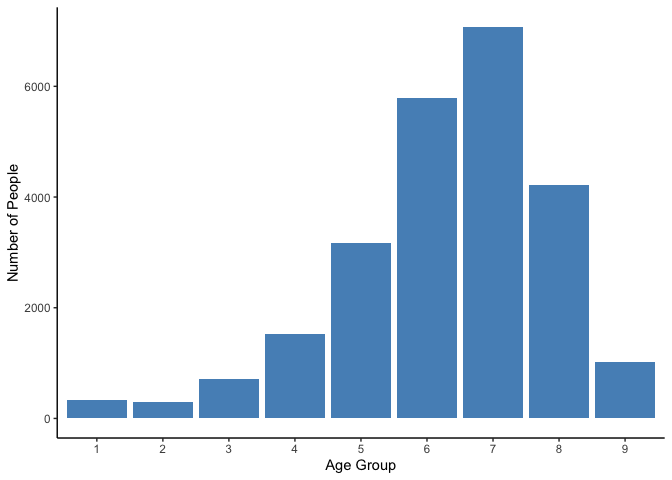
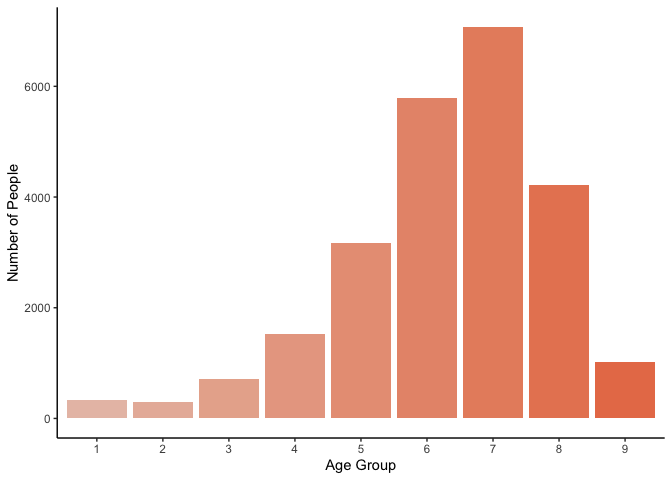
EDA -- univariate & bivariate

Changed region(s): [[0.0938, 0.0312, 1.0, 0.875]]

diff --git a/Report.md b/Report.md
@@ -5,19 +5,14 @@ Kaitlyn Westra
 
 -   [Introduction](#introduction)
 -   [Question](#question)
-    -   [Background](#background)
-    -   [Project](#project)
 -   [Dataset](#dataset)
-    -   [Dataset Background](#dataset-background)
-    -   [Dataset Description](#dataset-description)
-    -   [Exploratory Data Analysis](#exploratory-data-analysis)
--   [Exploratory Data Analysis](#exploratory-data-analysis-1)
+-   [Exploratory Data Analysis](#exploratory-data-analysis)
 -   [Modeling](#modeling)
 -   [Findings:](#findings)
 -   [Limitations](#limitations)
 -   [Future Directions](#future-directions)
 -   [Conclusions](#conclusions)
-    -   [Author](#author)
+-   [Author](#author)
 -   [Appendix](#appendix)
 
 Introduction
@@ -100,7 +95,10 @@ As seen in the table above, I would change most datatypes to factor, which could
 
 With the knowledge of which variable names are included in this dataset, it makes sense to explore individual variables further and determine what they mean, what the distribution looks like, and how they're related to other variables. This allows us to to make choices about how to further interpret and analyze this data, as well as give some ideas on which data wrangling steps need to be taken.
 
-#### Exploratory Data Analysis
+Exploratory Data Analysis
+-------------------------
+
+#### Univariate EDA
 
 In `M_wide_all`, it appears as if some preprocessing steps have already been taken, such as adding a column for the age categories -- breaking down each person's exact decimal age, into an age bracket. To explore how these age categories are broken down, I created the following table and bar graph:
 
@@ -127,6 +125,10 @@ To gain an understanding of what ages are included in each group, I made the fol
 As shown above, the age cutoffs for each categroy are: 0.128679, 11.093771, 21.0047913, 31.0006847, 41.0047913, 51.0061607, 61.0020523, 71.0006866, 81.0047913, indicating that they chose 0, 11, 21, 31, 41, 51, 61, 71, 81 as their minimum ages for each age group. These cutoffs appear in grey dashed lines on the series of boxplots, demonstrating that these categories are chosen based on age itself, as opposed to having category containing the same number of people (e.g., 9 quantiles). The violin plot shown demonstrates how many samples are included in the entire dataset, by age, aligned with the violin plots to give a insight into the comparative amount of patients in each group.
 
 Some of the other variables that are primarily used to create Figure 1c are `race`, `mutnum_all`, `smoke`, `Gender`, and `therapy_binary`. However, before creating the figure, they "process dataframes a bit", which I'll walk through next.
+
+#### Data Wrangling
+
+The following code displays the main data wrangling steps used on this data. Below, I explain what this code does, and how it impacts the rest of the analysis.
 
 ``` r
 M_wide_all = M_wide_all %>%
@@ -168,7 +170,7 @@ In the last step of the above code, the variables `Gender`, `race`, `smoke`, `sm
 -   `therapy_binary`: untreated (no cancer directed therapy during interval other than hormonal therapy)
 
 </ul>
-To observe some of these changes, we'll look at what these variables look like before and after the change:
+To observe some of these changes, we'll look at what two these variables look like before and after the change:
 
 **Number of Mutations**
 
@@ -310,29 +312,58 @@ In the plot below, the distribution of `age` is shown on top of the distribution
 
 ![](Report_files/figure-markdown_github/mutate-changes-1.png)
 
-From this point, the dataset was subsetted to create a new dataset:
+In addition to `age_scaled` and `mutnum_all_r`, the variables that are used in Figure 1c include `smoke_bin`, `race_b`, `Gender`, and `therapy_binary`.
+
+**Smoke Binned**
+
+In the processing code above, we saw that `smoke_bin` has a value of 1 if patient is a current (`smoke` value of 1) or former (`smoke` value of 2) smoker, and a 0 if they have never been a smoker. The number of people in each of these categories is shown below, demonstrating that there is a similar amount of people who are current/former smokes and have never smoked.
+
+![](Report_files/figure-markdown_github/smoke-binned-EDA-1.png)
+
+**Race Binary**
+
+`race_b` was also created in the processing code shown above, as a binary version of `race` with a value of 1 for "White", and a 0 for anything else. The amount of people that fall into each of these categories is shown below, with the majority of patients in this study being white.
+
+![](Report_files/figure-markdown_github/race-binary-1.png)
+
+**Gender**
+
+`Gender` is a factor with one of two values: Male or Female. Here is the breakdown for participants in this study, displaying a comparable number of each gender, with slightly more females.
+
+![](Report_files/figure-markdown_github/gender-plot-1.png)
+
+**Therapy Binary**
+
+Lastly, `therapy_binary` indicates if the patient had any cancer directed therapy other than hormonal therapy. Based on the distrubtion below, it is evident that for most of the original patients, it was unknown whether or not they had therapy during the interval. Of the patients where their therapy status was known, there were more treated patients than untreated.
+
+![](Report_files/figure-markdown_github/therapy-plot-1.png)
+
+From this point in the authors' code, the dataset was subsetted to create a new dataset:
 
 ``` r
 #Define wide data frame with treatment known
 M_wide <- M_wide_all %>% filter(therapy_known==1)
 ```
 
-In this newly created dataset, `M_wide`, contains only the row where the therapy information is known. This is an appropriate way to identify and deal with missing data, as it ensures that the data we're using allows for the comparisons to be made.
+This newly created dataset, `M_wide`, contains only the rows where the therapy information is known. This is an appropriate way to identify and deal with missing data, which is necessary due to the large amount of patients with unknown therapy history, as shown in the plot above. Subsetting this dataset into `M_wide` ensures that the data we're using contains all the information we need, and allows for the comparisons to be made.
 
-Exploratory Data Analysis
--------------------------
+#### Bivariate EDA
 
-Show plots illustrating the distribution of at least 4 variables in your dataset. Comment on anything interesting you observe.
+To do some exploratory bivariate data analysis, I made a series of quick plots to see what relationships might be present between our variables of interest.
 
--   **Univariate EDA**: Includes insightful / thoughtful commentary on implications of the distributions plotted (perhaps how that informs further analysis)
-    -   more than: *Includes plots illustrating the distribution of more than one variable in the dataset, with some commentary.*
+I am first looking at the relationship between the presence of mutations in the gene *TP53* (`TP53`) and whether the patient recieved therapy (`therapy_binary`) during this period. Because these are each binary variables, it really only makes sense to calculate the odds ratio, but to show this same idea in a figure, the number of people that belong to each of these categories is shown in a 2-by-2 table. From this, we see that there seems to be a higher percentage of people with *TP53* mutations in the treated group than the untreated group:
 
-Show plots illustrating bivariate relationships for at least 2 pairs of variables. Explain what you observe (e.g., positive/negative correlation, no correlation, etc.).
+![](Report_files/figure-markdown_github/EDA-tp53-therapy-1.png)
 
--   **Bivariate EDA**: Includes insightful / thoughtful commentary on the implication of the relationships plotted
-    -   more than: *Includes plots illustrating bivariate relationships for at least 2 pairs of variables and some description of observations (e.g., strength of relationship, dependence on other factors).*
+Similarly, we can make the same plot for `smoke_bin` and the mutations in the gene *ASXL1* (`ASXL1`). From this, we see that there seems to be a higher percentage of current/former smokers (`smoke_bin` == 1) with mutations in ASXL1 compared to non-smokers.
 
-Before creating the actual model used in Figure 1c, I decided to do a series of quick plots to see what relationsips might be present between our variables of interest.
+![](Report_files/figure-markdown_github/EDA-asxl1-smoke-1.png)
+
+Just out of curiousity, we'll check the same thing -- if the presence of mutations correlates with smoking status -- in a *different* gene: *TET2*. Based on Figure 1c, I'd expect this not to show a significant difference between the groups. As expected, the figure below shows that there doesn't appear to be a significnatly higher amount of current/former smokers with new mutations in this gene compared to non-smokers.
+
+![](Report_files/figure-markdown_github/EDA-tet2-smoke-1.png)
+
+All of these bivariate plots give us some insight into what we expect to see with the model we create, and the odds ratio we'll be calculating. These plots don't adjust or control for any variables though, so this is something to keep in mind as we move forward.
 
 Modeling
 --------
@@ -597,7 +628,8 @@ Conclusions
 
 In addressing this question, I gained not only an understanding of how data science is used in my chosen career field, but also an appreciation for the hard work done by women in STEM -- as, to my surprise, first author Kelly Bolton MD PhD, as well as lab PI, Elli Papaemmanuil, PhD, are both women.
 
-### Author
+Author
+------
 
 ###### <img align="left" src="./background/headshot.png" width=90 height=90 style="margin-right: 5px;"> Kaitlyn Westra is an undergraduate student at Calvin University, studying Biochemistry (ACS Certified), Data Analytics, and Public Health. Her interests include bioinformatics, genomics, and computational biology, and she hopes to attend graduate school to continue learning about and contributing towards these fields.
 
@@ -628,7 +660,7 @@ table(M_wide_all$age_cat) %>%
   knitr::kable()
 
 ggplot(data = as.data.frame(table(M_wide_all$age_cat)), aes(x = Var1, y = Freq)) +
-  geom_col(fill = "#5691c1") +
+  geom_col(fill = c("#e8c1b3", "#e8b8a7", "#e8b09b", "#e8a790", "#e89f84", "#e89679", "#e88e6d", "#e88561", "#e87d56")) + ##e79e84 base color
   theme_classic() +
   labs(x = "Age Group", y = "Number of People")
 #give min of each boxplot / age group:
@@ -706,8 +738,50 @@ scaled_age_denstiy <- ggplot(data = M_wide_all, aes(x = age_scaled)) +
   scale_x_continuous(position = "top") +
   scale_y_reverse()
 cowplot::plot_grid(original_age_density, scaled_age_denstiy, nrow = 2, align = "v")
+ggplot(data = M_wide_all, aes(x = smoke_bin)) +
+  geom_bar(fill = c("#8e3b18","#be5422", "#ef924e")) +
+  theme_classic() +
+  labs(x = "Smoking Status", y = "Number of People")
+ggplot(data = M_wide_all, aes(x = as.factor(race_b))) +
+  geom_bar(fill = c("#405484","#8691b1")) +
+  theme_classic() +
+  labs(x = "Race", y = "Number of People")
+ggplot(data = M_wide_all, aes(x = as.factor(Gender))) +
+  geom_bar(fill = c("#469d89","#9fcfc3")) +
+  theme_classic() +
+  labs(x = "Gender", y = "Number of People")
+ggplot(data = M_wide_all, aes(x = as.factor(therapy_binary))) +
+  geom_bar(fill = c("#e7c9c1", "#cc9685", "#bfbfbf")) +
+  theme_classic() +
+  labs(x = "Therapy", y = "Number of People")
 #Define wide data frame with treatment known
 M_wide <- M_wide_all %>% filter(therapy_known==1)
+M_wide %>%
+  group_by(therapy_binary, TP53) %>%
+  summarize(number = n(), .groups = "drop") %>%
+  ungroup() %>%
+  ggplot(data = ., aes(x = as.factor(TP53), y = as.factor(therapy_binary), label = number)) +
+    geom_label(label.size = .1, label.padding = unit(1, "lines")) +
+    labs(x = "TP53 Mutation", y = "Therapy") +
+    theme_light()
+M_wide %>%
+  filter(!is.na(smoke_bin)) %>%
+  group_by(smoke_bin, ASXL1) %>%
+  summarize(number = n(), .groups = "drop") %>%
+  ungroup() %>%
+  ggplot(data = ., aes(x = as.factor(ASXL1), y = as.factor(smoke_bin), label = number)) +
+    geom_label(label.size = .1, label.padding = unit(1, "lines")) +
+    labs(x = "ASXL1 Mutation", y = "Smoker") +
+    theme_light()
+M_wide %>%
+  filter(!is.na(smoke_bin)) %>%
+  group_by(smoke_bin, TET2) %>%
+  summarize(number = n(), .groups = "drop") %>%
+  ungroup() %>%
+  ggplot(data = ., aes(x = as.factor(TET2), y = as.factor(smoke_bin), label = number)) +
+    geom_label(label.size = .1, label.padding = unit(1, "lines")) +
+    labs(x = "TET2 Mutation", y = "Smoker") +
+    theme_light()
 ## Main figures
 # Figure 1 - mutational characteristics
 hide_this_too <- function(){
